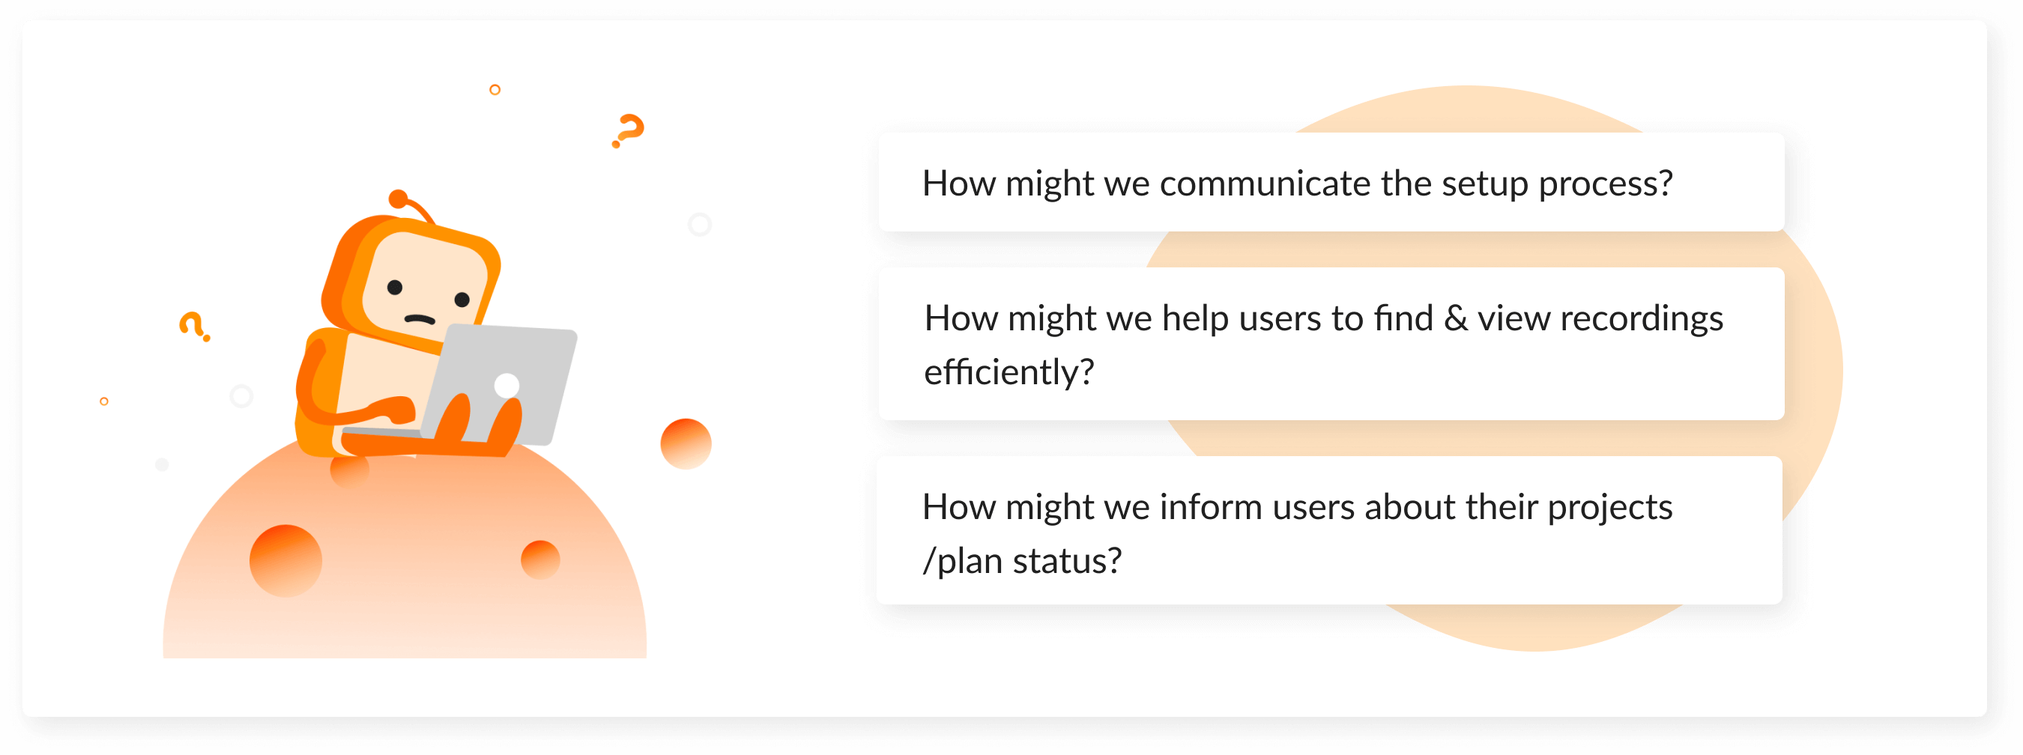
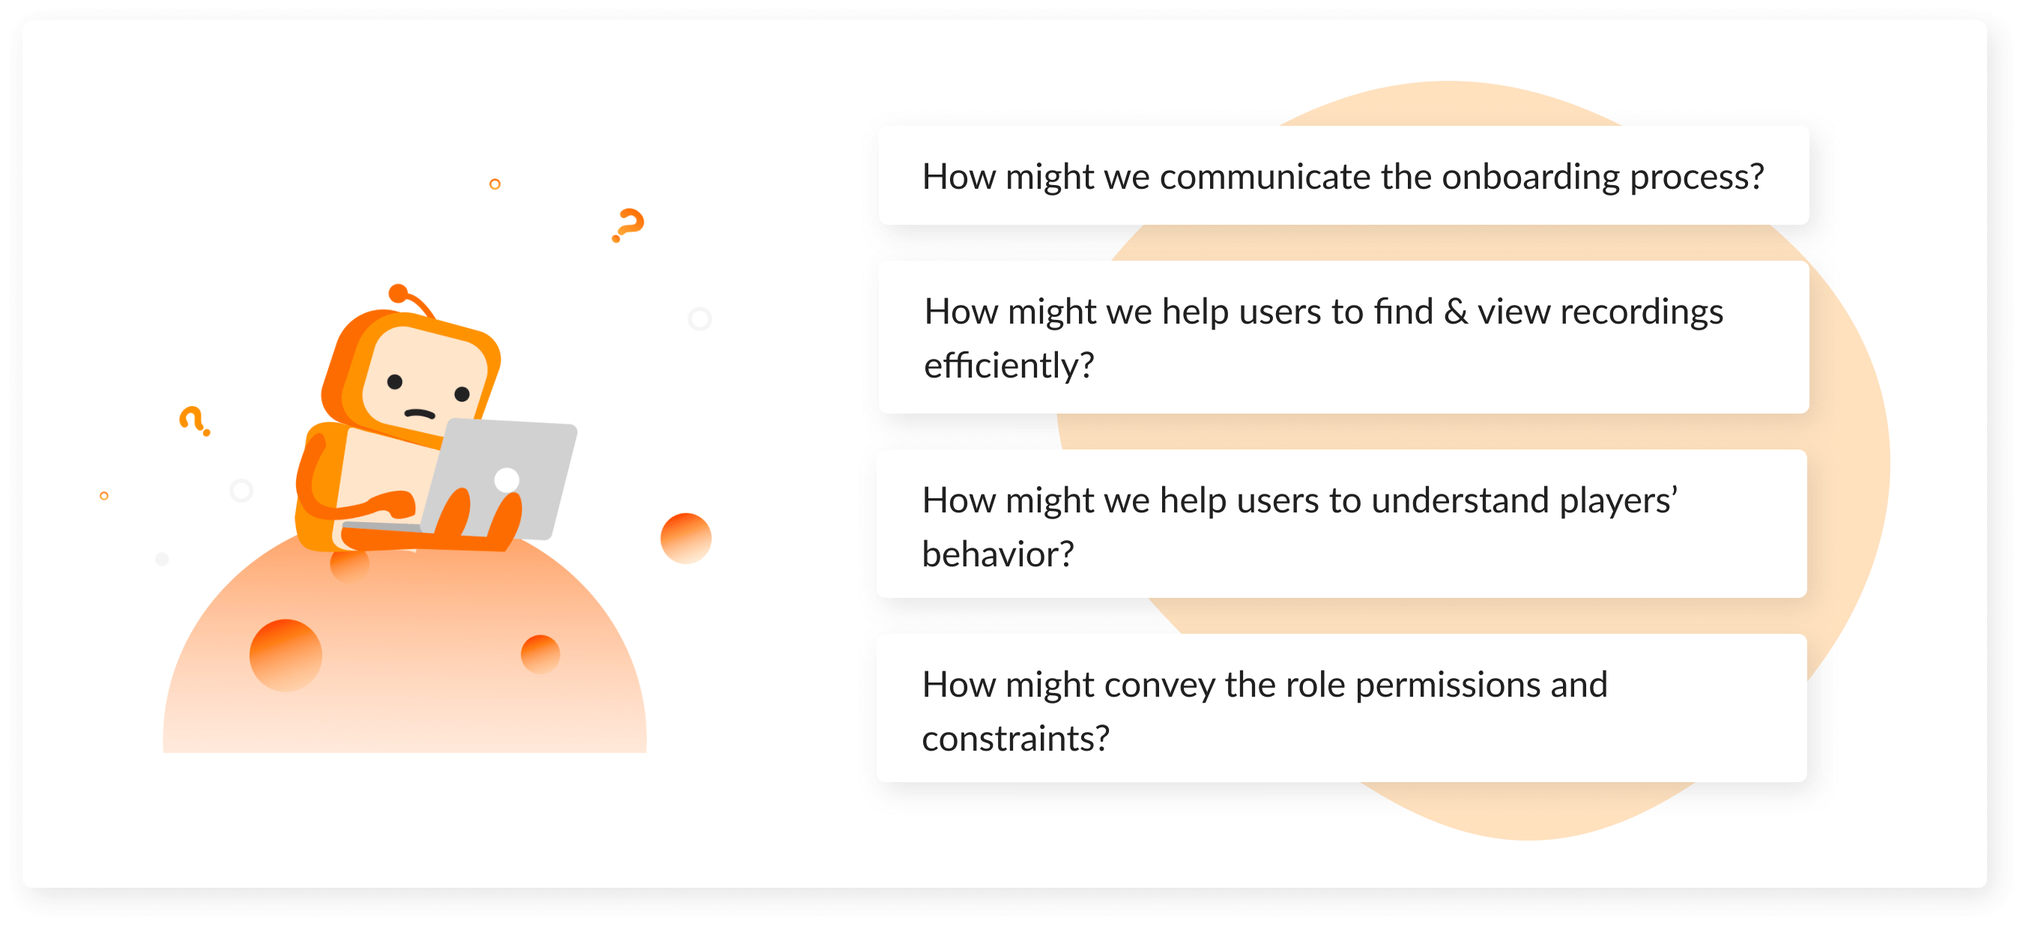
more padding issues

diff --git a/src/case8.html b/src/case8.html
@@ -33,7 +33,7 @@
 		<div class="case_header_box">
 			<h1>rob0</h1>
 			<p>
-                rob0 is an AI powered visual analytics tool for PC, VR and mobile game development. Instead of complicated graphs, It analyzes everything for you, and lets you know exactly when and why players leave your game.
+                rob0 is an AI powered visual analytics tool for PC, VR and mobile game development. Instead of complicated graphs, it analyzes everything for you, and lets you know exactly when and why players leave your game.
             </p>
 			<p>
                 <b>Roles:</b> Research, Information Architecture, UX/UI Design, Prototype
@@ -52,7 +52,7 @@
                 <h3 class="case_subsection_title case8_border_bottom_color">My role</h3>
             </div>
             <div class="case_description">
-                <p>As the first and sole UX/UI designer, I’ve been working on every single design front including the web, their B2B game analytics tool, the branding and the design system.
+                <p>As the first and sole UX/UI designer, I’ve been working on every single design front including the web, their B2B game analytics tool, the branding direction and the design system.
                   <br>Below case study focuses on how I successfully solved the key usability issues and designed the whole SaaS tool within a tight deadline. </p>
             </div>
             <div class="clear"></div>
@@ -72,7 +72,7 @@
             </div>
             <div class="case_description">
                 <p>
-                    Game analytics tools tend to have a deep learning curve since they are data-oriented. rob0 is a SaaS tool that doesn't require math skill. Potential clients loved the idea, but without a UX designer made the product very hard to use. Clients didn’t know how to use the product without constantly asking help from rob0. In order to acquire more clients, rob0 needed to overcome below challenges:
+                    Game analytics tools tend to have a deep learning curve since they are data-oriented. rob0 is a SaaS tool that doesn't require math skill. Potential clients loved the idea,but they didn’t know how to use the product without constantly asking help from rob0. In order to acquire more clients, rob0 needed to overcome below challenges:
                 </p>
                 <img class="case_img click_to_overlay" src="./assets/img/case8/2. Painpoints.png">
             </div>
@@ -83,22 +83,31 @@
             </div>
             <div class="case_description">
                 <p>
-                    I’ve used all the insights from research to design the SaaS tool from ground up. With the new product, users can <b>efficiently view, document, share video sessions, and improve communications</b> during every stage of a gaming developing process. Users can have insights from real players to improve their conversion from day 1. Inside are: handy navigations, helpful directions, intuitive and dynamic layout for you to easily get started with the product.
+                    I’ve used all the insights from research to design the SaaS tool from ground up. With the new product, users can <b>efficiently view, document andshare video sessions to improve communications</b> during every stage of a gaming development process. Users can have insights from real players to improve their conversion from day 1. Inside are: handy navigations, helpful directions, intuitive and dynamic layout for you to easily get started with the product.
                 </p>
             </div>
         </div>
-        <div class="case_title_description_container more_margin_after">
+        <!-- <div class="case_title_description_container more_margin_after">
             <div class="case_title">
                 <h3 class="case_subsection_title case8_border_bottom_color">Outcome</h3>
             </div>
             <div class="case_description">
                 <ul>
-                    <li>The new product received positive feedback from everyone including my boss, colleagues and clients.</li>
-                    <li>After rob0 was released, OnMobile (rob’s investor) decided to acquire rob0. Since them I've been leading the design of OnMobile's B2C gaming platform.</li>  
-                    <li>The completion rate of setup process went from 0% to 100%.</li>
+                    <li>The completion rate of onboarding process is <b>100%</b>.</li>
+                    <li>The number of accouts rose by <b>15 times </b> in 2 months.</li>  
+                    <li>After rob0 was released, OnMobile (rob’s investor) really liked the product, since then I've been leading the design of OnMobile's B2C gaming platform.</li>
                 </ul>
             </div>
-        </div>
+        </div> -->
+
+        <div class="case_title_description_container">
+                <div class="case_title">
+                    <h3 class="case_subsection_title case8_border_bottom_color">Outcome</h3>
+                </div>
+                <div class="case_description">
+                    <img class="case_img" src="./assets/img/case8/2.5 Outcome.png">
+                </div>
+            </div>
 
 
         <div class="case_title_description_container zero_margin_bot">
@@ -141,7 +150,9 @@
             </div>
             <div class="case_description">
                 <p>
-                    After research, we were tasked to launch rob0 with full billing ability in less than 4 months. With such a tight deadline, knowing how to prioritize became imperative. I had meetings with my boss and colleagues at least once a week to brainstorm and make sure everyone’s synced. Thanks to the research I did, I was able to confidently suggesting features and changes. Finally taking into account of everyone’s needs and limitations, we decided to focus on redesigning the information architecture, adding MVP (Minimum viable product) and improve efficiency. Below are the core functionalities: (red are the ones we didn’t add)
+                    After research, we were tasked to launch rob0 with full billing ability in less than 4 months. With such a tight deadline, knowing how to prioritize became imperative. I had meetings with my boss and colleagues at least once a week to brainstorm and make sure everyone’s synced. Thanks to the research I did, I was able to confidently suggesting features and changes. 
+                    <br>
+                    Finally taking into account of everyone’s needs and limitations, we decided to focus on redesigning the information architecture, adding MVP (Minimum viable product) and improve efficiency. Below are the core functionalities: (red are the ones we didn’t add)
                 </p>
                 <img class="case_img click_to_overlay" src="./assets/img/case8/5. Roadmap.png">
             </div>
@@ -152,17 +163,15 @@
             </div>
             <div class="case_description">
                 <p>
-                    Knowing what problems and potential features we wanted for rob0.
-                    <br>
-                    During the design process, with a few iterations, I created below sitemap to show the layout.
+                    Knowing what problems and potential features we wanted for rob0.During the design process, with a few iterations, I created below sitemap to show the layout.
                     <br>
                     <br>
-                    Basically, the whole product will be divided into  <b>projects</b> and <b>organizations</b>.
-                    <br>
-                    Projects - Each single project includes dev log, live users, project info. Dev log shows the recordings of developmentdevices. Live users shows the recordings and statistics of real users. Project information consists of all info about a project such as member list, project plan etc.
+                    Basically, the whole product will be divided into projects and organizations.
                     <br>
                     <br>
-                    Organizations - Organization consists of information such as projects, member list, billing information.
+                    <b>Projects</b> - Each single project includes dev log, live users, project info. Dev log shows the recordings of developmentdevices. Live users shows the recordings and statistics of real users. Project information consists of all info about a project such as member list, project plan etc.
+                    <br>
+                    <b>Organizations</b> - Organization consists of information such as projects, member list, billing information.
                 </p>
                 <img class="case_img click_to_overlay" src="./assets/img/case8/6. Sitemap.png">
             </div>
@@ -200,7 +209,7 @@
                 </p>
                 <img class="case_img click_to_overlay small_margin_after" src="./assets/img/case8/7.2 Challenge 1.png">
                 <p class="no_margin_p">
-                    I settled down with “step-by-step guided tour”, because:
+                    I settled down with “<b>step-by-step guided tour</b>”, because:
                 </p>
                 <ol>
                     <li>Users cannot use the product without completing certain steps.</li> 
@@ -209,7 +218,7 @@
                     <li>It is quick since users don’t need to make any choice or input their billing info at this moment.</li>
                 </ol>
                 <p>
-                    With the new product, users can easily get started with rob0 by themselves.The completion rate is 100% for setup process. 
+                    With the new product, users can easily get started with rob0 by themselves. The completion rate is 100% for setup process. 
                 </p>
             </div>
         </div>
@@ -271,7 +280,7 @@
                 </h3>
             </div>
             <div class="case_description">
-                <h2 class="case8_colored_title">How might we inform users about their projects /plan status?</h2>
+                <h2 class="case8_colored_title">How might we help users to understand players' behavior?</h2>
             </div>
         </div>
         <div class="case_title_description_container more_margin_after">
@@ -292,13 +301,16 @@
 
         <div class="case_title_description_container">
             <div class="case_title">
-                <h3 id="section6" class="case_title"><b>OTHER DESIGNS</b></h3>
+                <h3 id="section6" class="case_title"><b>CHALLENGE 4</b></h3>
             </div>
             <div class="case_description">
-                <h2 class="case8_colored_title">Project & Organization Information</h2>
+                <h2 class="case8_colored_title">How might we convey the role permissions and constraints?</h2>
                 <p class="very_small_margin_after">
                     The old product was very naive, it only had one page with both project, organization name and members. For a B2B product, it is important for users to easily manage their projects & organizations.
-                    The most challenging part of this was role permission design and constraints. For example, users are not allowed to delete themselves if there’s only one owner for a project, they can only transfer a paid project, etc. The questions were: Should I grey out the functions that users don’t have access to or simply don’t show them? How do I convey these constraints / rules clearly without overwhelming them? To make sure these constraints were well designed, I had close communication with our back-end all the time.                      
+                <br>
+                <br>
+                    The most challenging part of this was role permission design and constraints. For example, users are not allowed to delete themselves if there’s only one owner for a project, they can only transfer a paid project, etc. The questions were: Should I grey out the functions that users don’t have access to or simply don’t show them? How do I convey these constraints / rules clearly without overwhelming them? 
+                    To make sure these constraints were well designed, I had close communication with our back-end all the time.                      
                 </p>
                 <p class="very_small_margin_after">
                     Below are some of the design details.
@@ -328,7 +340,7 @@
                 <img class="case_img click_to_overlay" src="./assets/img/case8/12.Illustrations.png">
             </div>
         </div>
-        <div class="case_title_description_container more_margin_after">
+        <!-- <div class="case_title_description_container more_margin_after">
             <div class="case_title">
                 <h3 class="case_subsection_title case8_border_bottom_color">Website Mid-Fidelity wireframes</h3>
             </div>
@@ -338,7 +350,7 @@
                 </p>
                 <img class="case_img click_to_overlay" src="./assets/img/case8/13.website.png">
             </div>
-        </div>
+        </div> -->
 
 
 		<div class="case_title_description_container">

diff --git a/src/case6.html b/src/case6.html
@@ -34,7 +34,7 @@
 		<div class="case_header_box">
 			<h1>Lowe’s Fidelity Program</h1>
 			<p>
-                Lowe’s is a big retail company specializing in home improvement. The fidelity program helps Lowe’s, RONA and Réno-Dépot’s customers to save money.
+                Lowe’s is a big retail company that specializes in home improvement. The fidelity program helps Lowe’s, RONA and Réno-Dépot’s customers to save money.
             </p>
 			<p>
                 <b>Roles:</b> Research, Information Architecture, UX/UI Design
@@ -43,7 +43,7 @@
                 <b>Tools:</b> Sketch, InVision, Zeplin, Keynote, Google Sheet, Jira
             </p>
             <p class="header_box_last_p">
-                <b>Duration::</b> Jan - Mar 2020
+                <b>Duration:</b> Jan - Mar 2020
             </p>
 		</div>
 	</div>
@@ -80,8 +80,6 @@
             <div class="case_description">
                 <p class="very_small_margin_after">
                     Lowe’s clients need to easily understand the benefit of VIPpro fidelity program, mangage all member cards and purchase histories on a single app in order to save more money while shopping. Lowe’s needs to update their app to attract more clients.
-                    <br>
-                    Now here comes the design challenges:
                 </p>
                 <img class="case_img click_to_overlay" src="./assets/img/case6/3. Challenges.png">
             </div>
@@ -132,14 +130,14 @@
         </div>
         
 
-        <div class="case_title_description_container">
+        <div class="case_title_description_container zero_margin_bot">
             <div class="case_title">
                 <h3 id="section2" class="case_section_title no_margin">CHALLENGE 1</h3>
             </div>
             <div class="case_description">
                 <h2 class="case6_colored_title">How might we integrate RONA and Réno-Dépot seamlessly?</h2>
                 <p class="very_small_margin_after">
-                    To integrate new features seamlessly, I created this sitemap to show the information architecture of the current app, everything in blue are the new features. We will look at the features more in details when I talk about the other challenges.
+                    To integrate new features seamlessly, I created below sitemap to show the information architecture of the current app, everything in blue are the new features. We will look at the features more in details when I talk about the other challenges.
 
                     Before I walk you through Mike’s jorney using VIPpro, comparing the old version to the new version.  I’d like to give you a high level overview of what Mike can do on VIPpro. Below are four main things Mike can do:
                 </p>
@@ -243,9 +241,9 @@
             </div>
             <div class="case_description">
                 <p class="very_small_margin_after">
-                        Offers - With a segmented control on top, members can minimize scroll efforts when viewing promotional offers. 
-                        <br>Store - Members can locate nearest stores and save their favorite stores.
-                        <br>Réno-Dépot - Members can scan barcode at checkout to have discount and view detailed information about the card all on the same screen.
+                        <b>Offers</b> - With a segmented control on top, members can minimize scroll efforts when viewing promotional offers. 
+                        <br><b>Store</b> - Members can locate nearest stores and save their favorite stores.
+                        <br><b>Réno-Dépot</b> - Members can scan barcode at checkout to have discount and view detailed information about the card all on the same screen.
                 </p>
                 <img class="case_img click_to_overlay small_margin_after" src="./assets/img/case6/9.2 Offer,store.png">
             </div>
@@ -256,7 +254,7 @@
             </div>
             <div class="case_description">
                 <p class="very_small_margin_after">
-                    Link RONA account - Members can follow the step-by-step instruction of how to link RONA contractors account.
+                    <b>Link RONA account</b> - Members can follow the step-by-step instruction of how to link RONA contractors account.
                 </p>
                 <img class="case_img click_to_overlay" src="./assets/img/case6/9.3 Hi-fi_Link RONA Account.png">
             </div>

diff --git a/src/case1.html b/src/case1.html
@@ -310,11 +310,13 @@
 				<h3 class="case_subsection_title">Before</h3>
 			</div>
 			<div class="case_description">
-				<ol>
-					<li>Sketch symbols duplicate when multiple designers making changes on different devices. (see below image with lots of duplicates “copy 1”, “copy 1 copy 2” etc.)</li>
-					<li>Time consuming to clean symbols.</li>
-					<li>Inconsistency such as colors, icons, fonts, naming conventions. (See same buttons have different names and colors)</li>
-				</ol>
+				<div class="case_ol_container">
+					<ol>
+						<li>Sketch symbols duplicate when multiple designers making changes on different devices. (see below image with lots of duplicates “copy 1”, “copy 1 copy 2” etc.)</li>
+						<li>Time consuming to clean symbols.</li>
+						<li>Inconsistency such as colors, icons, fonts, naming conventions. (See same buttons have different names and colors)</li>
+					</ol>
+				</div>
 				<img class="case_img click_to_overlay" src="./assets/img/case1/10.1 before design system.png">
 			</div>
 		</div>
@@ -323,15 +325,17 @@
 				<h3 class="case_subsection_title">After</h3>
 			</div>
 			<div class="case_description">
-				<p>
+				<p class="zero_margin_bot">
 					Created completed design system:
 				</p>
-				<ol>
-					<li>Created consistent symbols: icon style and strokes.</li>
-					<li>Created responsive elements that can be adapted to different devices.</li>
-					<li>Unified naming convention.</li>
-					<li>Created a font system that can be reused for any other projects.</li>
-				</ol>
+				<div class="case_ol_container">
+					<ol>
+						<li>Created consistent symbols: icon style and strokes.</li>
+						<li>Created responsive elements that can be adapted to different devices.</li>
+						<li>Unified naming convention.</li>
+						<li>Created a font system that can be reused for any other projects.</li>
+					</ol>
+				</div>
 				<img class="case_img click_to_overlay" src="./assets/img/case1/10.2 after design system.png">
 			</div>
 		</div>

diff --git a/src/about.html b/src/about.html
@@ -15,10 +15,10 @@
       <!--<li>I'm a product designer at
         <a target="blank" class="blue_link" href="https://kineticcommerce.com/">Kinetic Commerce</a>.</li>-->
     </ul>
-    <p>I’m a UX/UI designer who believes in creating visually appealing and intuitive products.</p>
+    <p>I’m a UX/UI/Product designer who believes in creating visually appealing and intuitive products.</p>
     <p>Experiencing life in different places has shaped me into a problem solver, an empathetic and adaptive designer. I love
       to learn from different people and the insights I gain from them serve as the main drive behind my design.</p>
-    <p>Before my journey into UX, I experienced different fields including Photography, Marketing and Supply Chain Management.
+    <p>Before my journey into UX, I experienced different fields including Photography, Marketing and Supply Chain.
       My diverse experiences have sharpened my skills in research, analysis and aesthetics. When I finally learned about
       UX, I fell in love with it. I'm excited by the process of uncovering users' hidden needs from research, creatively
       and visually solving users' problems, and thinking critically to make sure solutions scale. </p>

diff --git a/src/photo.html b/src/photo.html
@@ -2,8 +2,7 @@
 <article>
   <div class="photo_container ">
     <p class="some_margin_after">I loved collecting pretty stickers/posters when I was a kid, but never held a real camera until I turned 18.
-    Since then, I started to save up for a DSLR camera, and learned photorgaphy, photo-retouching, photoshop-manipulation on my own. 
-    I love taking portraits, landscapes, architectures, weddings, and food.
+    Since then, I started to save up for a DSLR camera, and learned photography, photo-retouching, photoshop-manipulation on my own. 
     I love photography because photos are return tickets to our past; because it gives me a chance to show the world how I view things and how the mundane can be turned into somehting exceptional. 
     </p>
     <h3 class="photo_title">People</h3>

diff --git a/src/main_page.html b/src/main_page.html
@@ -7,9 +7,9 @@
   <div id="intro_text_container">
     <h1 class="intro_header">
       <span class="yellow_text">Bonjour,</span> I'm Maggie!</h1>
-    <h2 class="intro_h2">A UX/UI Designer who’s passionate about finding
-      <br>out users' true voices and visually solving their
-      <br>problems.</h2>
+    <h2 class="intro_h2">A UX Designer with a background in Marketing,
+      <br>Photography and Supply Chain.
+</h2>
     <button id="about_me_button" class="expand_on_hover">MORE ABOUT ME</button>
     <div class="yellow_links_container">
       <a href="https://linkedin.com/in/maggieli9/" target="_blank">

diff --git a/src/case4.html b/src/case4.html
@@ -30,8 +30,12 @@
 			<p>An end-to-end skincare database app aims to help everyone find the right products.</p>
 			<p>
 				<b>Roles:</b> User Research, Information Architecture, UX/UI Design, Prototype, Testing.</p>
+			<p>
+				<b>Tools:</b> Sketch, InVision.
+			</p>
 			<p class="header_box_last_p">
-				<b>Tools:</b> Sketch, InVision.</p>
+				<b>Duration:</b> Aug - Sep 2019
+			</p>
 		</div>
 	</div>
 	<div class="case_container">

diff --git a/src/case3.html b/src/case3.html
@@ -31,8 +31,12 @@
 			</p>
 			<p>
 				<b>Roles:</b> User Research, Information Architecture, UX/UI Design, Prototype, Testing.</p>
+			<p>
+				<b>Tools:</b> Sketch, InVision, Principle
+			</p>
 			<p class="header_box_last_p">
-				<b>Tools:</b> Sketch, InVision, Principle</p>
+				<b>Duration:</b> Jun - Jul 2019
+			</p>
 		</div>
 	</div>
 	<div class="case_container">

diff --git a/src/assets/css/style.css b/src/assets/css/style.css
@@ -824,7 +824,7 @@ p.very_small_margin_after {
   }
 }
 .other_cases_link_container {
-  margin-top: 40px;
+  margin-top: 80px;
   display: flex;
   justify-content: flex-start;
 }

diff --git a/src/assets/css/style.less b/src/assets/css/style.less
@@ -1024,7 +1024,7 @@ p.very_small_margin_after {
 }
 
 .other_cases_link_container {
-  margin-top: 40px;
+  margin-top: 80px;
   display: flex;
   justify-content: flex-start;
 }
